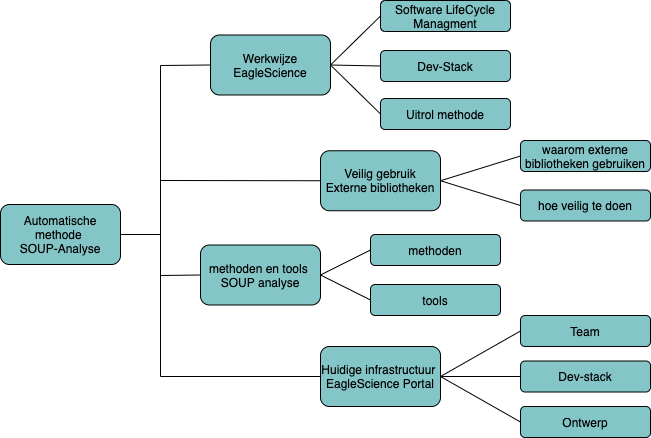
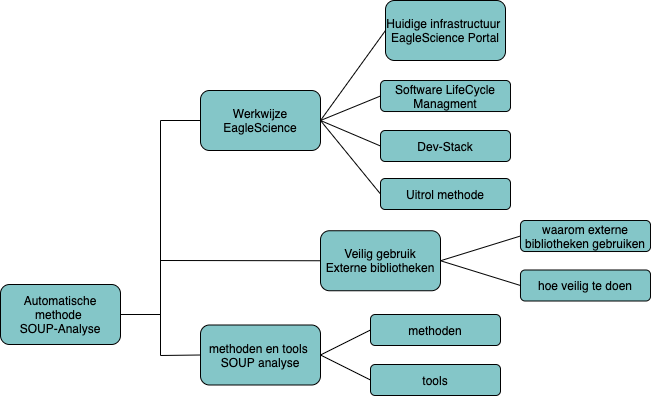
Onderzoekontwerp aangepast gelezen tot onderzoek deel 1, maar conceptueel model tekst nog aanpassen

diff --git a/Chapters/0301-OnderzoeksPlan.tex b/Chapters/0301-OnderzoeksPlan.tex
@@ -1,22 +1,22 @@
 \chapter{Onderzoeksplan}\label{ch:onderzoekPlan}
 
-In het vorige hoofdstuk is de opdracht voor dit onderzoek duidelijk bschreven. In dit hoofdstuk wordt uitgewijd over hoe deze opdracht wordt uitgevoerd, welke bronnen er gebruikt worden en hoe het onderzoek gedaan zal worden. Het resultaat is een onderzoeksplan voor een onderzoek naar analyses op kwetsbaarheden in externe bibliotheken (SOUP) binnen EagleScience.
+In het vorige hoofdstuk is de opdracht voor dit onderzoek beschreven. In dit hoofdstuk wordt uitgewijd over hoe deze opdracht en het daarbij behorende onderzoek zal worden uitgevoerd en welke bronnen er hiervoor gebruikt worden. Het resultaat is een onderzoeksplan voor een onderzoek naar analyses op kwetsbaarheden in externe bibliotheken (SOUP) binnen EagleScience.
 
 
 \section{Aanleiding}\label{sec:OP_aanleiding}
-EagleScience heeft de ambitie om te groeien in zowel het aantal projecten dat het aanneemt als in het aantal medewerkers. Daarnaast is het bezig met het integreren van het software lifecycle management paradigma in het kwaliteitssysteem om zo een gerichte-, transparante en traceerbare aanpak te hebben over de kwaliteit en daarmee de veiligheid van de te leveren software. Er wordt gezocht naar manieren om taken die veel voorkomen en bijdragen aan de kwaliteit te automatiseren om op die manier een traceerbare en transparante aanpak te verkrijgen. Op dit moment mist voornamelijk inzicht in de kwetsbaarheden van projecten waarvan de ontwikkeling is afgerond, maar die wel door EagleScience worden gehost en daardoor onder haar verantwoordelijkheid vallen.
+EagleScience heeft de ambitie om te groeien in zowel het aantal projecten dat het aanneemt als in het aantal medewerkers. Daarnaast is het bezig met het integreren van het software lifecycle management paradigma in het kwaliteitssysteem om zo een gerichte-, transparante en traceerbare aanpak te hebben aangaande de kwaliteit en daarmee de veiligheid van de te leveren software. Er wordt gezocht naar manieren om taken die veel voorkomen en bijdragen aan de kwaliteit te automatiseren om op die manier een traceerbare en transparante aanpak te verkrijgen. Op dit moment mist voornamelijk inzicht in de kwetsbaarheden van projecten waarvan de ontwikkeling is afgerond, maar die wel door EagleScience worden gehost en daardoor onder haar verantwoordelijkheid vallen.
 
 
 \section{Probleemanalyse}\label{sec:probleemanalyse}
-EagleScience doet veel om veilige applicaties te leveren voor haar klanten. Tijdens het ontwikkelproces wordt er door de ontwikkelaars continue afgewogen welke maatregelen, in architectuur en/of code, moeten worden genomen om applicaties veilig op te kunnen leveren. Deze afwegingen zijn onderdeel van het ontwerpproces en worden door de klant gezien als declarabele uren en zij zijn dan ook bereid voor deze werkzaamheden te betalen. Op het moment dat een project "klaar" is en over gaat van ontwikkeling naar hosting wordt er onderhoud gedaan volgens afspraken in de SLA. In diezelfde SLA wordt niet altijd ruimte opgenomen voor het analyseren van de applicatie op kwetsbaarheden middels SOUP-analyses. Vaak komt dit doordat de klant er geen budget voor heeft, of het niet belangrijk vindt. Gezien EagleScience alleen een advies kan uitbrengen over support en de klant de eindbeslissing neemt worden SOUP-analyses veelal niet of niet tijdig uitgevoerd. Omdat EagleScience wel zo "veel mogelijk" wil garanderen dat de software die gehost wordt veilig is dient de applicatie in hosting periodiek geannalyseerd te worden op kwetsbaarheden. Op dit moment is dit een tijdrovend handmatig process waarmee een teamlid ongeveer 8 tot 12 uur bezig is. Voor iedere dependency moet er namelijk bekeken worden of er mogelijke kwetsbaarheden bestaan, of dan al niet upgedate moeten worden. Door de groei die EagleScience binnekort wil maken bestaat de wens om bovenstaand proces te automatiseren.
+EagleScience doet veel om veilige applicaties te leveren aan haar klanten. Tijdens het ontwikkelproces wordt er door de ontwikkelaars continue afgewogen welke maatregelen, in architectuur en/of code, moeten worden genomen om applicaties veilig op te kunnen leveren. Deze afwegingen zijn onderdeel van het ontwerpproces en worden door de klant gezien als declarabele uren en zij zijn dan ook bereid voor deze werkzaamheden te betalen. Op het moment dat een project "klaar" is en over gaat van ontwikkeling naar hosting wordt er onderhoud gedaan volgens afspraken in de SLA. In diezelfde SLA wordt niet altijd ruimte opgenomen voor het testen van de applicatie op kwetsbaarheden middels SOUP-analyses. Vaak komt dit doordat de klant er geen budget voor heeft, of het niet belangrijk vindt. Gezien EagleScience alleen een advies kan uitbrengen over support en de klant de eindbeslissing neemt worden SOUP-analyses veelal niet of niet tijdig uitgevoerd. Omdat EagleScience wel "zo veel mogelijk" wil garanderen dat de software die gehost wordt veilig is, dient de applicatie in hosting periodiek geannalyseerd te worden op kwetsbaarheden. Op dit moment is dit een tijdrovend handmatig process waarmee een teamlid ongeveer 8 tot 12 uur bezig is. Voor iedere dependency moet er namelijk bekeken worden of er mogelijke kwetsbaarheden bestaan, of dan al niet upgedate moeten worden. Door de groei die EagleScience binnekort wil maken bestaat de wens om bovenstaand proces te automatiseren.
 
-Er moet dus een methode worden ontwikkeld die het mogelijk maakt om geautomatiseerd en periodiek een SOUP-analyse te doen op dependencies binnen een project. De SOUP-analyses moeten inzichtelijk maken of en zo ja, welke, kwetsbaarheden zijn gevonden in deze bibliotheken. De methode moet voor alle platformen (docker, programmeertalen, databases etc.) dezelfde resultaten geven.
+Er moet dus een methode worden ontwikkeld die het mogelijk maakt om geautomatiseerd en periodiek een SOUP-analyse te doen op dependencies binnen een project. De SOUP-analyses moeten inzichtelijk maken of en zo ja, welke, kwetsbaarheden zijn gevonden in deze bibliotheken. De methode moet voor alle platformen (Docker, programmeertalen, databases etc.) dezelfde resultaten geven, en compatible zijn met de huidige infrastructuur van EagleScience.
 
-Door de analyses te automatiseren wordt beoogd dat er minder tijd wordt besteed aan de analyse. Deze tijd kan dan worden besteed door de ontwikkelaar aan taken die declarabel zijn en voor beide partijen winstgevend zijn.
+Door de analyses te automatiseren wordt beoogd dat er minder tijd zal hoeven worden besteed aan de analyse. Deze tijd kan dan worden ingezet door de ontwikkelaar aan taken die declarabel zijn en voor beide partijen winstgevend zijn.
 
 
 \section{Probleem stelling, onderzoeksvraag en doelstellingen}\label{sec:probleem-stelling-onderzoeksvraag-en-doelstellingen}
-Samengevat luidt het probleem: "Het handmatig uitvoeren van SOUP-analyses kost manuren die niet declarabel zijn. Om deze reden is de wens dat er een geautomatiseerde oplossing komt die periodiek de projecten, die in ontwikkeling zijn en/of door EagleScience gehost worden, analyseerd op kwetsbaarheden in gebruikte externe bibliotheken. Door deze automatische oplossing te gebruiken wordt beoogd dat de (niet declarabele) uren die normaal gebruikt worden voor het analyseren van projecten gebruikt kunnen worden voor andere wel declarabale uren. Hierdoor zou de efficientie binnen EagleScience kunnen worden verhoogd.
+Samengevat luidt het probleem: "Het handmatig uitvoeren van SOUP-analyses kost manuren die niet declarabel zijn. Om deze reden is de wens dat er een geautomatiseerde oplossing komt die periodiek de projecten, die in ontwikkeling zijn en/of door EagleScience gehost worden, analyseerd op kwetsbaarheden in gebruikte externe bibliotheken. Door deze automatische oplossing te gebruiken wordt beoogd dat de (niet declarabele) uren die normaal gebruikt worden voor het analyseren van projecten in plaats daarvan gebruikt kunnen worden voor andere wel declarabale uren. Hierdoor zou de efficientie binnen EagleScience kunnen worden verhoogd.
 
 Voor het onderzoek naar het hierboven genoemde probleem is de volgende centrale onderzoeksvraag opgesteld: "Hoe kan EagleScience middels een geautomatiseerde methode inzicht krijgen in potentiële kwetsbaarheden van gebruikte bibliotheken binnen projecten, waarbij rekening gehouden wordt met de huidige manier van werken?"
 
@@ -35,41 +35,34 @@ Project managers krijgen op dit moment een update over de staat van kwetsbaarhed
 De tijdsinvestering die nodig is van ontwikkelaars voor de ontwikkeling van de module weegt volgens hen op tegen de voordelen die de module in de toekomst kan brengen.
 
 \subsection{Ontwikkelteam (intern)}\label{subsec:ontwikkelteam-(intern)1}
-Het handmatig testen van kwetsbaarheden werd tot op heden gedaan door het ontwikkelteam. Dit is een tijdrovende taak, welke ten koste gaat van de ontwikkeling van software voor klanten. Het ontwikkelteam heeft daarrom direct baat bij de ontwikkeling van de beoogte module en wil daarom graag hieraan meedenken en meewerken.
+Het handmatig testen van kwetsbaarheden werd tot op heden gedaan door het ontwikkelteam. Dit is een tijdrovende taak, welke ten koste gaat van de ontwikkeling van software voor klanten. Het ontwikkelteam heeft daarom direct baat bij de ontwikkeling van de beoogte module en wil daarom graag hieraan meedenken en meewerken.
 
 \subsection{Klant (extern)}\label{subsec:klant-(extern)1}
 De enige externe stakeholder is de klant. Dit is tevens een passieve stakeholder gezien zij niet direct betrokken zijn bij de ontwikkeling van de module, maar wel baat hebben bij de uitkomst hiervan, namelijk in de vorm van veiligere en betrouwbaardere software tegen potentieel lagere kosten.
-% TODO Maaike hier gebleven.
+
 \begin{figure}[H]
     \myfloatalign
     \includegraphics[width=10cm]{gfx/stakeholderanalyse}
     \caption{StakeHolders Analyse}
     \label{fig:StakeholderAnalyse1}
 \end{figure}
-[NOTE]Figuur stakeholder analyse nog aanpassen.
-Zoals te zien is in figuur~\ref{fig:StakeholderAnalyse1} is het dagelijks bestuur, de projectmanager, het ontwikkelteam en de klanten het meest gebaad bij een nieuwe module voor de analyse van kwetsbaarheden.
-Door deze analyse worden alleen de requirements meegenomen die intern zijn opgenomen.
-
+Zoals te zien is in figuur~\ref{fig:StakeholderAnalyse1} is hebben alle stakeholders veel baat bij een nieuwe module voor de analyse van kwetsbaarheden. De invloed hierop is het hoogst bij het ontwikkelteam en de projectmangagers. De lage invloed van de klant zorgt ervoor dat voor het ontwerp alleen de requirements vanuit EagleScience worden opgenomen.
 
 \section{Theoretisch kader}\label{sec:theoretisch-kader}
-Het theoretisch kader waarmee gewerkt wordt bestaat uit twee hoofddelen. Het eerste hoofddeel is de werkwijze van EagleScience en de gebruikte technologiëen. De volgende bronnen zullen bij het onderzoek worden gebruikt:
+Het theoretisch kader waarmee wordt gewerkt bestaat uit twee delen. Het eerste deel omvat theorie over externe bibliotheken. Het richt zich op het gebruik hiervan en de potentiële gevaren en methoden om deze bibliotheken te analyseren. De geselecteerde bronnen zijn:
 \begin{itemize}
-    \item \textbf{151030 F04B Proces Flow Chart ES\_V1.0\_TN.pdf} een document dat de workflow beschrijft die binnen EagleScience gehanteerd wordt.
+    \item \textbf{OWASP top 10 (https://owasp.org/Top10/)} De OWASP Top-10 is als uitgangspunt gekozen omdat de inhoud van dit document binnen EagleScience geldt als aandachtspunt voor het ontwikkelen van veilige software. De basis voor dit onderzoek wordt beschreven in punt "A06:2021-Vulnerable and Outdated Components". Hier wordt beschreven welke gevaren er potentieel dreigen als op dit punt niets gedaan wordt.
+    \item \textbf{Detail pagina OWASP A06:2021(https://owasp.org/Top10/A06\_2021-Vulnerable\_and\_Outdated\_Components/)} Op deze pagina zijn details te vinden over item A06:2021 waaronder een beschrijving, hoe het te voorkomen is en een aantal voorbeeld scenario's waarbij een aanval wordt geillustreerd.
+    \item \textbf{OWASP dependency-check (https://owasp.org/www-project-dependency-check/)} Pagina over het project binnen de OWASP voor het analyseren van componenten in applicaties.
+    \item \textbf{Justifying the use of software of uncertain pedigree (SOUP) in safety-related applications} P.G.\ Bishop, R.E.\ Bloomfield and P.K.D.\  Froome for Adelard 2001. Hoewel dit document verouderd lijkt staat er wel degelijk interessante informatie over waarom je SOUP zou gebruiken en hoe je de risico's kan verminderen.
+    \item \textbf{Backstabber’s Knife Collection: A Review of Open Source Software Supply Chain Attacks} Marc Ohm, Henrik Plate, Arnold Sykosch, and Michael Meier: 2020: Dit artikel bevat informatie over een mogelijke vorm van aanvallen die middels SOUP uitgevoerd zouden kunnen worden. Daarnaast geeft het artikel inzicht in hoe de onderzoekers packages voor NPM, Python, en Ruby hebben onderzocht op kwetsbaarheden.
+\end{itemize}
+Het tweede deel omvat de werkwijze van EagleScience en de door hun gebruikte technologiëen. De geselecteerde documenten vormen de basis informatie over de werkwijze van EagleScience en zal als input worden gebruikt bij het ontwerp van de analyse welke aansluitend aan het onderzoek zal plaatsvinden. De volgende bronnen zullen bij het onderzoek worden gebruikt:
+\begin{itemize}
+    \item \textbf{151030 F04B Proces Flow Chart ES\_V1.0\_TN.pdf} Een document dat de workflow beschrijft die binnen EagleScience gehanteerd wordt.
     \item \textbf{200121\_Policy Manual\_ES\_V6 signed.pdf} ISO handboek waarin de bedrijfsvoering binnen EagleScience wordt beschreven.
 \end{itemize}
-Deze documenten vormen de basis over de werkwijze van EagleScience en zal als input gelden voor het ontwerp dat plaats gaat vinden na het onderzoek.
-jsdkl;;;;
-Het tweede hoofddeel is de theorie over externe bibliotheken. Het richt zich op het gebruik hiervan, de potentiële gevaren en methoden om deze bibliotheken te analyseren. Als ingangspunt is de OWASP Top-10 gekozen omdat de inhoud van dit document binnen EagleScience geldt als aandachtspunten voor het ontwikkelen van veilige software. De basis voor dit onderzoek wordt beschreven in punt "A06:2021-Vulnerable and Outdated Components". Hier wordt beschreven welke gevaren er potentieel dreigen als op dit punt niets gedaan wordt. Andere bronnen zijn:
-\begin{itemize}
-    \item \textbf{OWASP top 10 (https://owasp.org/Top10/)} hierin staan de belangrijkste aandachtspunten die door een onderzoek vanuit de OWASP aan het licht zijn gekomen. Op A06:2021 staat een melding over kwetsbaarheden en outdated Components.
-    \item \textbf{Detail pagina OWASP A06:2021(https://owasp.org/Top10/A06\_2021-Vulnerable\_and\_Outdated\_Components/)} OP deze pagina zijn details te vinden over item A06:2021 waaronder een beschrijving, Hoe het te voorkomen is en een aantal voorbeeld scenario's waarbij een aanval wordt geillustreerd.
-    \item \textbf{OWASP dependency-check (https://owasp.org/www-project-dependency-check/)} Pagina over het project binnen de OWASP voor het analyseren van componenten in Applicaties
-    \item \textbf{Justifying the use of software of uncertain pedigree (SOUP) in safety-related applications} P.G.\ Bishop, R.E.\ Bloomfield and P.K.D.\  Froome for Adelard 2001. Hoewel dit document verouderd lijkt staat er wel degelijk interessante informatie over waarom je SOUP zou gebruiken en hoe je de risico's kan verminderen.
-    \item \textbf{Backstabber’s Knife Collection: A Review of Open Source Software Supply Chain Attacks} Marc Ohm, Henrik Plate, Arnold Sykosch, and Michael Meier: 2020: Dit artikel bevat informatie over een mogelijke vorm van aanvallen die middels SOUP uitgevoerd zouden kunnen worden. Daarnaast geeft het artikel inzicht in hoe de onderzoekers packages voor NPM, Python, en Ruby hebben onderzocht.
-\end{itemize}
-Het laatste hoofddeel bestaat uit de resultaten van de bovengenoemde onderdelen waarmee een voor EagleScience geschikte methode wordt gevonden. Naast de resultaten van de twee voorgaande hoofddelen worden de volgende bronnen geraadpleegd als leidraad voor het ontwerp:
-
-
+% TODO maaike Conceptueel model tekst
 \section{Conceptueel model}\label{sec:conceptueel-model}
 Om de relevantie en relatie van de verschillende onderzoeken te waarborgen is het volgende conceptueel model opgesteld.
 \begin{figure}[H]
@@ -79,23 +72,22 @@ Om de relevantie en relatie van de verschillende onderzoeken te waarborgen is he
     \label{fig:ConceptueelModel}
 \end{figure}
 
-In figuur~\ref{fig:ConceptueelModel} is het conceptueel model opgenomen dat voor deze opdracht is opgesteld. Dit model maakt de samenhang van de verschillende begrippen duidelijk.
+In figuur~\ref{fig:ConceptueelModel} is het conceptueel model opgenomen dat voor deze opdracht is opgesteld. Dit model maakt de samenhang van de verschillende begrippen inzichtelijk.
 
-Het kernbegrip is "Automatische methode SOUP analyse" welke staat voor de eind conclusie die het onderzoek moet opleveren in de zin van een conclussie over tools en een methode die gebruikt kunnen worden in het ontwerp van de module. Om tot deze conclussie te komen zijn er vier begrippen die ieders een eigen domein binnen de probleemstelling belichten. Zo zal "werkwijze EagleScience" de manier van werken binnen Eaglescience belichten als ook de manier van uitrollen en de dev-stack die gebruikt gaat worden. Ook komt hier de Software Lifecycle Managment aan bod gezien dit één van de aanleidingen voor de opdracht. Het theoretische deel van het onderzoek wordt onderzocht in "veilig gebruik externe bibliotheken" waarin wordt gekeken waarom er bibliotheken van buitenaf worden gebruikt en wat de potentiële gevaren zijn die dit met zich meebrengt. Het begrip methoden en tools zal ingaan op de beschikbare tools die gebruikt kunnen worden om een analyse te doen. Met deze tools wordt een methode onderzocht die het mogelijk maakt met de constraints die EagleScience heeft om een SOUP analyse te doen. Met als resultaaat een theoretische methode die als input kan gelden voor het ontwerp voor de nieuwe module die in de opdracht staat beschreven. Deze nieuwe module dient in de EagleScience Portal opgenomen te worden en om die reden is het begrip "Huidig architctuur EagleScience Portal" waarin wordt onderzocht hoe de portal ontworpen is en welke dev-stack er is gebruikt.
+Het kernbegrip is "Automatische methode SOUP analyse" welke staat voor de eindconclusie die het onderzoek moet opleveren in de zin van een conclusie over tools en een methode die gebruikt kunnen worden in het ontwerp van de module. Om tot deze conclussie te komen zijn er vier begrippen die ieders een eigen domein binnen de probleemstelling belichten. Zo zal "werkwijze EagleScience" de manier van werken binnen Eaglescience belichten als ook de manier van uitrollen en de dev-stack die gebruikt gaat worden. Ook komt hier de Software Lifecycle Managment aan bod gezien dit één van de aanleidingen is van deze opdracht. Het theoretische deel van het onderzoek wordt onderzocht in "veilig gebruik externe bibliotheken" waarin wordt gekeken waarom er bibliotheken van buitenaf worden gebruikt en wat de potentiële gevaren zijn die dit met zich meebrengt. Het begrip methoden en tools zal ingaan op de beschikbare tools die gebruikt kunnen worden om een analyse te doen. Met deze tools wordt een methode onderzocht die het mogelijk maakt met de constraints die EagleScience heeft om een SOUP-analyse te doen. Met als resultaaat een theoretische methode die als input kan gelden voor het ontwerp voor de nieuwe module die in de opdracht staat beschreven. Deze nieuwe module dient in de EagleScience Portal opgenomen te worden en om die reden is het begrip "Huidig architctuur EagleScience Portal" waarin wordt onderzocht hoe de portal ontworpen is en welke dev-stack er is gebruikt.
 
 
 \section{Onderzoeksontwerp}\label{sec:OP_onderzoeksontwerp}
-Aan de hand van het hioerboven beschreven theoretisch kader, conceptueel model en de doelstellingen is het volgende onderzoeksOntwerp opgesteld.
+Aan de hand van de hierboven beschreven doelstellingen, theoretisch kader en conceptueel model is het volgende onderzoeksontwerp opgesteld.
 
 \subsection{Onderzoeksvraag en deelvragen}\label{subsec:onderzoeksvraag-en-deelvragen}
-Op basis van probeem analysede onderzoeksvraag als volgt: "Hoe kan EagleScience middels een geautomatiseerde methode inzicht krijgen in potentiële kwetsbaarheden van gebruikte bibliotheken binnen projecten waarbij rekening gehouden wordt met de huidige manier van werken?"
+Op basis van de probeemanalyse luidt de onderzoeksvraag als volgt: "Hoe kan EagleScience middels een geautomatiseerde methode inzicht krijgen in potentiële kwetsbaarheden van gebruikte bibliotheken binnen projecten waarbij rekening gehouden wordt met de huidige manier van werken?"
 
-Door deze vraag te ontleden komen zijn er twee domeinen waar er onderzocht moet worden:
-Het eerste domein is Het gebruik en gevaar van externe bibliotheken, waar we de volgende deelvraag kunnen stellen: "Wat is het effect van het gebruik van externe bibliotheken bij het ontwikkelen van software, welke gevaren brengt dit met zich mee en wat kan er gedaan worden om deze gevaren te minimaliseren?". Het tweede domein omvat methodes om geautomatiseerd SOUP-analyses te doen op projecten binnen EagleScience. De deelvraag is als volgt: "Welke SCA tooling is compabitble met de omgeving van EagleScience en welke methode kan worden toegepast om deze tooling te gebuiken voor het automatisch analyseren van externe dependencies?"
+Door deze vraag te ontleden komen zijn er twee domeinen waar onderzoek naar moet worden gedaan:
+Het eerste domein is het gebruik en gevaar van externe bibliotheken, welke leidt tot de volgende deelvraag: "Wat is het effect van het gebruik van externe bibliotheken bij het ontwikkelen van software, welke gevaren brengt dit met zich mee en wat kan er gedaan worden om deze gevaren te minimaliseren?".
+Het tweede domein omvat methodes om geautomatiseerd SOUP-analyses te doen op projecten binnen EagleScience. De deelvraag is als volgt: "Welke SCA tooling is compabitble met de omgeving van EagleScience en welke methode kan worden toegepast om deze tooling te gebuiken voor het automatisch analyseren van externe dependencies?"
 
-
-Het is dan ook verstandig om deze domeien ieders in een eigen onderzoek te behandelen waarbij de uitkomsten elkaar aanvullen in het eindresultaat.
-
+Deze domeinen zullen ieders in een deelonderzoek worden behandeld, waarvan de uitkomsten elkaar zullen aanvullen en tezamen resulteren in eind eindresultaat.
 \begin{figure}[H]
     \myfloatalign
     \includegraphics[width=10cm]{gfx/Onderzoekmodel}
@@ -103,18 +95,18 @@ Het is dan ook verstandig om deze domeien ieders in een eigen onderzoek te behan
     \label{fig:OnderzoeksModel}
 \end{figure}
 
-In figuur\ref{fig:OnderzoeksModel} is te zien hoe de twee domeinen met elkaar in relatie staan ten opzichte van het beoogde resulaat. Het onderzoek over het gebruik van Externe Bibliotheken zal informatie als resultaat hebben die vervolgens gebruikt kunnen worden als kennis in het onderzoek naar een methode voor een SOUP-analyse. Wat weer als resultaat een Methode oplevert die gebruikt kan worden voor de implementatie van de module die aan de opdracht voldoet.
+In figuur\ref{fig:OnderzoeksModel} is te zien hoe de twee domeinen met elkaar in relatie staan ten opzichte van het beoogde eindresulaat. Het onderzoek over het gebruik van externe bibliotheken zal resulteren in concrete inzichten die vervolgens gebruikt kunnen worden als kennis in het onderzoek naar een methode voor een SOUP-analyse. Dit zal uiteindelijk een methode opleveren die gebruikt kan worden voor de implementatie van de module die aan de opdracht voldoet.
 
 \subsection{Scope}\label{subsec:scope}
-Het domein softwareveiligheid is enorm op het moment van schrijven een 'hot-topic'. Om deze reden is er gekozen om dit onderzoek te beperken tot het veiliger maken van software middels het analyseren en beschikbaar stellen van informatie over externe bibliotheken. Daarnaast zullen alleen de technologiën van EagleScience relevant zijn in dit onderzoek.
+Het domein softwareveiligheid is op het moment van schrijven een 'hot-topic', en zeer breed. Om deze reden is er gekozen om dit onderzoek te beperken tot het veiliger maken van software middels het analyseren en beschikbaar stellen van informatie over externe bibliotheken. Daarnaast zullen alleen de technologiën die compatibel zijn met de werkwijze van EagleScience en daarmee vallen onder de voorafgestelde criteria van deze opdacht worden opgenomen in dit onderzoek.
 
 \subsubsection{Onderzoeken}\label{sec:onderzoeken}
-Zoals hierboven is aangegeven zullen er een tweetal onderzoeken worden uitgevoerd die ieders een deel van de gestelde onderzoeksvraag zullen beantwoorden. De conclussie van het eest onderzoek is input voor het tweede onderzoek wat een zoektocht is naar een methode die in te passen is in de huidige buildstraat in overeenstemming met de opdracht van de oprdrachtgever en de theorie die in het eerste onderzoek te vinden is.
+Zoals hierboven is aangegeven zullen er een tweetal onderzoeken worden uitgevoerd die ieders een deel van de gestelde onderzoeksvraag zullen beantwoorden. De conclusie van het eerste onderzoek zal dienen als input voor het tweede onderzoek.
 
-\newpage %TODO: quickfix om volgordelijkheid te veranderen voor figuren...
+\newpage %TODO: quickfix om volgorde lijkheid te veranderen voor figuren...
 
-\subsubsection{Onderzoek 1: Literatuur studie veiligere software door SOUP
-Het \textbf{doel} van dit onderzoek is om inzicht te krijgen wat een SOUP-analyse is en hoe relevant het is om dit te doen. Daarnaast wordt er gekeken wat de SOUP-analyse toevoegd aan de veiligheid van de software die EagleScience levert. Met dit doel is de \textbf{scope} dat er alleen gekeken wordt naar soup-analyses en dat andere methoden die software veiliger maken wel aanbod komen als referentie. Maar niet verder worden uitgezocht. De \textbf{onderzoeksvraag} luid: "Hoe kan SOUP op een effectieve manier worden geanalyseerd en hoe maakt dit software veiliger?". De gebruikte \textbf{methodes} zullen deskresearch zijn aangevuld met interviews. Interviews met collega's zullen inzicht brengen in methodes die al worden toegepast om software veiliger te maken. Daarnaast zijn een aantal conferenties die gehouden worden met software veiligheid als onderwerp. Deze conferenties staan nu door de huidige wereld situatie online en zijn vaak terug te kijken. Het onderzoeksmodel welke te zien is in figuur~\ref{fig:OnderzoeksModelNoodZaakSOUP} geeft een beeld hoe de methoden worden toegepast om tot een eindresultaat te komen. De \textbf{bronnen} die gebruikt zullen worden zullen online bronnen zijn aangevuld met vraaggesprekken met collega's en medewerkers van instanties die zich bezighouden met het veiliger maken van software. Daarnaast worden relevante presentaties van conferenties terug gekeken voor verdere informatie.
+\subsubsection{Onderzoek 1: Literatuur studie veiligere software door SOUP-analyses
+Het \textbf{doel} van dit onderzoek is om inzicht te krijgen wat een SOUP-analyse is en hoe relevant het is om dit te doen. Daarnaast wordt er gekeken wat de SOUP-analyse toevoegd aan de veiligheid van de software die EagleScience levert. De \textbf{scope} is dat er alleen gekeken wordt naar SOUP-analyses en dat andere methoden die software veiliger maken wel aan bod komen als referentie, maar niet verder worden uitgezocht. De \textbf{onderzoeksvraag} luid: "Hoe kan SOUP op een effectieve manier worden geanalyseerd en hoe maakt dit software veiliger?". De gebruikte \textbf{methodes} zullen deskresearch zijn aangevuld met interviews. Interviews met collega's zullen inzicht geven in methodes die al worden toegepast om software veiliger te maken. Daarnaast zijn een aantal conferenties die gehouden worden met software veiligheid als onderwerp. Deze conferenties staan nu door de pandemie online en zijn vaak terug te kijken. Het onderzoeksmodel welke te zien is in figuur~\ref{fig:OnderzoeksModelNoodZaakSOUP} geeft een beeld hoe de methoden worden toegepast om tot een eindresultaat te komen. De \textbf{bronnen} die gebruikt zullen worden zullen online bronnen zijn aangevuld met vraaggesprekken met collega's en medewerkers van instanties die zich bezighouden met het veiliger maken van software. Daarnaast worden relevante presentaties van conferenties terug gekeken voor verdere informatie.
 \begin{figure}[htbp]
     \myfloatalign
     \includegraphics[width=10cm]{gfx/OnderzoeksmodelSOUP}
